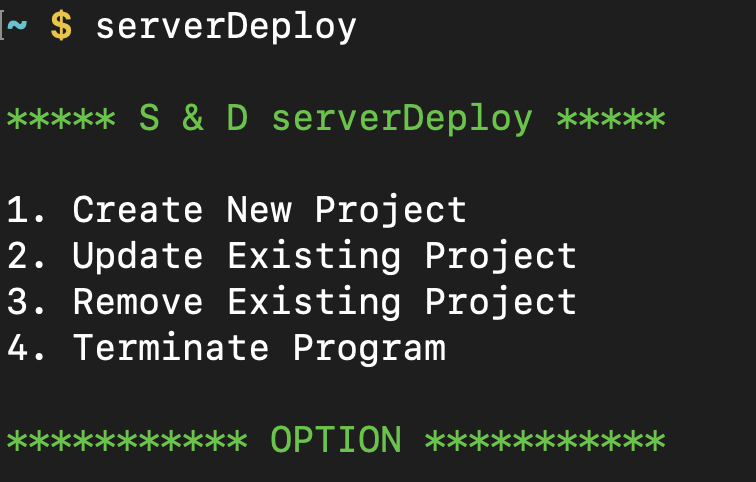
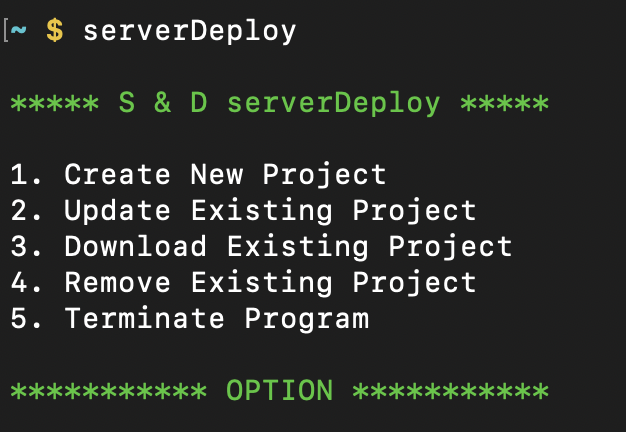
New Feature: Download Existing Project

diff --git a/client/modules/setupConfig.py b/client/modules/setupConfig.py
@@ -48,8 +48,13 @@ class SetupConfig:
 
         while(self.repeat):
             try:
-                option = int(input('\n'+colors.GREEN + '***** S & D serverDeploy *****' + colors.ENDC + '\n' + '\n'+'1. Create New Project' + '\n' +
-                                   '2. Update Existing Project' + '\n' + '3. Remove Existing Project' + '\n' + '4. Terminate Program' + '\n\n' + colors.GREEN + '*********** OPTION ***********' + colors.ENDC + '\t'))
+                option = int(
+                    input(
+                        '\n' + colors.GREEN + '***** S & D serverDeploy *****' + colors.ENDC + '\n' + '\n' +
+                        '1. Create New Project' + '\n' + '2. Update Existing Project' + '\n' +
+                        '3. Download Existing Project' + '\n' + '4. Remove Existing Project' + '\n' +
+                        '5. Terminate Program' + '\n\n' + colors.GREEN + '*********** OPTION ***********' + colors.ENDC +
+                        '\t'))
 
                 if(option == 1):
                     self.status == self.projectName == self.domainName == None
@@ -71,19 +76,29 @@ class SetupConfig:
                         self.repeat = False
 
                 elif(option == 3):
-                    confirm = input(
-                        '\n' + colors.YELLOW + 'WARN: This will Permanently remove the Project. Continue? y/n  ' + colors.ENDC)
+                    name = input('\n' + 'Project Name (no space please)? ')
+                    if ((' ' in name) == True or not name):
+                        print('\n'+colors.RED +
+                              'ERROR: Invalid Project Name' + colors.ENDC+'\n')
+                    else:
+                        status = {"name": name, "type": 3}
+                        print('\n'+'Checking with Server...' + '\n')
+                        self.repeat = False
+
+                elif(option == 4):
+                    confirm = input('\n' + colors.YELLOW +
+                                    'WARN: This will Permanently remove the Project. Continue? y/n  ' + colors.ENDC)
                     if(confirm == 'y' or confirm == 'Y'):
                         name = input('\n' + 'Project Name (no space please)? ')
                         if ((' ' in name) == True or not name):
                             print('\n'+colors.RED +
                                   'ERROR: Invalid Project Name' + colors.ENDC+'\n')
                         else:
-                            status = {"name": name, "type": 3}
+                            status = {"name": name, "type": 4}
                             print('\n'+'Checking with Server...' + '\n')
                             self.repeat = False
 
-                elif(option == 4):
+                elif(option == 5):
                     self.repeat = False
                     print(
                         '\n'+colors.YELLOW + 'Program Closed!' + colors.ENDC + '\n')

diff --git a/client/app.py b/client/app.py
@@ -41,6 +41,17 @@ def copyToServer(projectInfo):
         exit()
 
 
+def copyFromServer(remoteLocation, projectName):
+    try:
+        os.system(
+            f'scp -i {setupInfo["sshKey"]} {setupInfo["serverSCPInfo"].split(":")[0]}:{remoteLocation}  {projectLocation}')
+        os.system(f'cd {projectLocation} && tar -xf {projectName}.tar.gz && rm -rf {projectName}.tar.gz')
+    except:
+        print(
+            '\n'+colors.RED + 'ERROR: Server Auth Error; Modify setup.json file with correct info' + colors.ENDC+'\n')
+        exit()
+
+
 def authenticateClient():
     generateConf["passCode"] = getpass.getpass('Server PassCode: ')
     url = f'{setupInfo["serverName"]}/authenticate'
@@ -84,8 +95,8 @@ elif(generateConf and generateConf['type'] == 2):
     if(authenticateClient()):
         projectStatus = checkIfProjectExist()
         if(projectStatus):
-            confirm = input(
-                '\n'+colors.YELLOW + 'WARN: Make Sure your mainFile is still ' + projectStatus + ' Continue? y/n   ' + colors.ENDC)
+            confirm = input('\n' + colors.YELLOW + 'WARN: Make Sure your mainFile is still ' + projectStatus +
+                            ' Continue? y/n   ' + colors.ENDC)
             if (confirm == 'y' or confirm == 'Y'):
                 try:
                     copyToServer(generateConf)
@@ -109,6 +120,33 @@ elif(generateConf and generateConf['type'] == 2):
 
 
 elif(generateConf and generateConf['type'] == 3):
+    if(authenticateClient()):
+        projectStatus = checkIfProjectExist()
+        if(projectStatus):
+            try:
+                url = f'{setupInfo["serverName"]}/download'
+                req = requests.post(url, json=generateConf)
+                archiveLocation = json.loads(req.text)
+                archiveLocation = archiveLocation['archiveLocation']
+            except:
+                print(
+                    '\n'+colors.RED+'ServerError: Unable to communicate with Server!'+colors.ENDC+'\n')
+            try:
+                copyFromServer(archiveLocation, generateConf['name'])
+                print('\n'+generateConf['name'] + ' downloaded successfully! \n')
+            except:
+                print(
+                    '\n'+colors.RED+'ServerError: Unable to download archive via SCP!'+colors.ENDC+'\n')
+
+        else:
+            print('\n'+colors.RED +
+                  'Error: Project not found in Server' + colors.ENDC+'\n')
+
+    else:
+        print('\n'+colors.RED + 'Error: Unable to Authenticate' + colors.ENDC+'\n')
+
+
+elif(generateConf and generateConf['type'] == 4):
     if(authenticateClient()):
         projectStatus = checkIfProjectExist()
         if(projectStatus):

diff --git a/server/server.py b/server/server.py
@@ -1,4 +1,6 @@
 import json
+import threading
+from time import time, sleep
 from flask import Flask, request
 
 from modules.readWriteProjectList import ManageProjectList
@@ -16,6 +18,17 @@ def getPort():
     except:
         port = 3000
     return port
+
+
+temp_obj = None
+
+
+def waitAndDelete():
+    sleep(60 - time() % 60)
+    try:
+        temp_obj.removeArchive()
+    except:
+        pass
 
 
 @app.route('/', methods=['GET', 'POST'])
@@ -102,6 +115,42 @@ def update():
                         return {"ERROR": 'Unable to Restart PM2 instance in Server!'}
 
                     return {"Success": f"{projectName} is Updated"}
+
+            return {"ERROR": 'Project Not found in Server!'}
+        else:
+            return {"ERROR": 'Project Not found in Server!'}
+    else:
+        return {"ERROR": 'Unable to Authenticate!'}
+
+
+@app.route('/download', methods=['POST'])
+def download():
+    clientPass = request.json['passCode']
+    projectName = request.json['name']
+    archiveLocation = ""
+
+    if(authenticate(clientPass)):
+        try:
+            projectInfo = json.loads(projectRecord.readRecord())
+        except:
+            projectInfo = None
+            return {"ERROR": 'Project Not found in Server!'}
+        if projectInfo:
+            for project in projectInfo:
+                if project["name"] == projectName:
+                    currentProject = ManageApp(
+                        projectName, project["domain"], project["port"], '')
+                    try:
+                        archiveLocation = currentProject.compress()
+                    except:
+                        return {"ERROR": 'Unable to Compress Project in Server!'}
+
+                    global temp_obj
+                    temp_obj = currentProject
+                    th = threading.Thread(target=waitAndDelete)
+                    th.start()
+
+                    return {"Success": f"{projectName} is Compressed!", "archiveLocation": archiveLocation}
 
             return {"ERROR": 'Project Not found in Server!'}
         else:

diff --git a/server/modules/manageApp.py b/server/modules/manageApp.py
@@ -1,5 +1,6 @@
 import os
 import json
+import tarfile
 
 
 def readSetupFile(fileName):
@@ -34,6 +35,7 @@ class ManageApp:
         self.domain = domain
         self.port = port
         self.mainFile = mainFile
+        self.exclude_files = [f"{projectName}/node_modules"]
 
     def moveAndUnzip(self):
         os.system(
@@ -78,6 +80,21 @@ class ManageApp:
     def activateDomain(self):
         os.system(
             f'sudo a2ensite {self.domain}.conf && sudo service apache2 reload && sudo certbot --apache -n  --redirect -d {self.domain}')
+        return
+
+    def filter_function(self, tarinfo):
+        filename = tarinfo.name
+        return None if filename in self.exclude_files or os.path.splitext(filename)[1] in self.exclude_files else tarinfo
+
+    def compress(self):
+        tar = tarfile.open(f"{self.destination}/{self.projectName}.tar.gz", "w:gz")
+        tar.add(f"{self.destination}/{self.projectName}",
+                arcname=self.projectName, filter=self.filter_function)
+        tar.close()
+        return f"{self.destination}/{self.projectName}.tar.gz"
+
+    def removeArchive(self):
+        os.system(f'rm {self.destination}/{self.projectName}.tar.gz')
         return
 
     def removeFiles(self):
